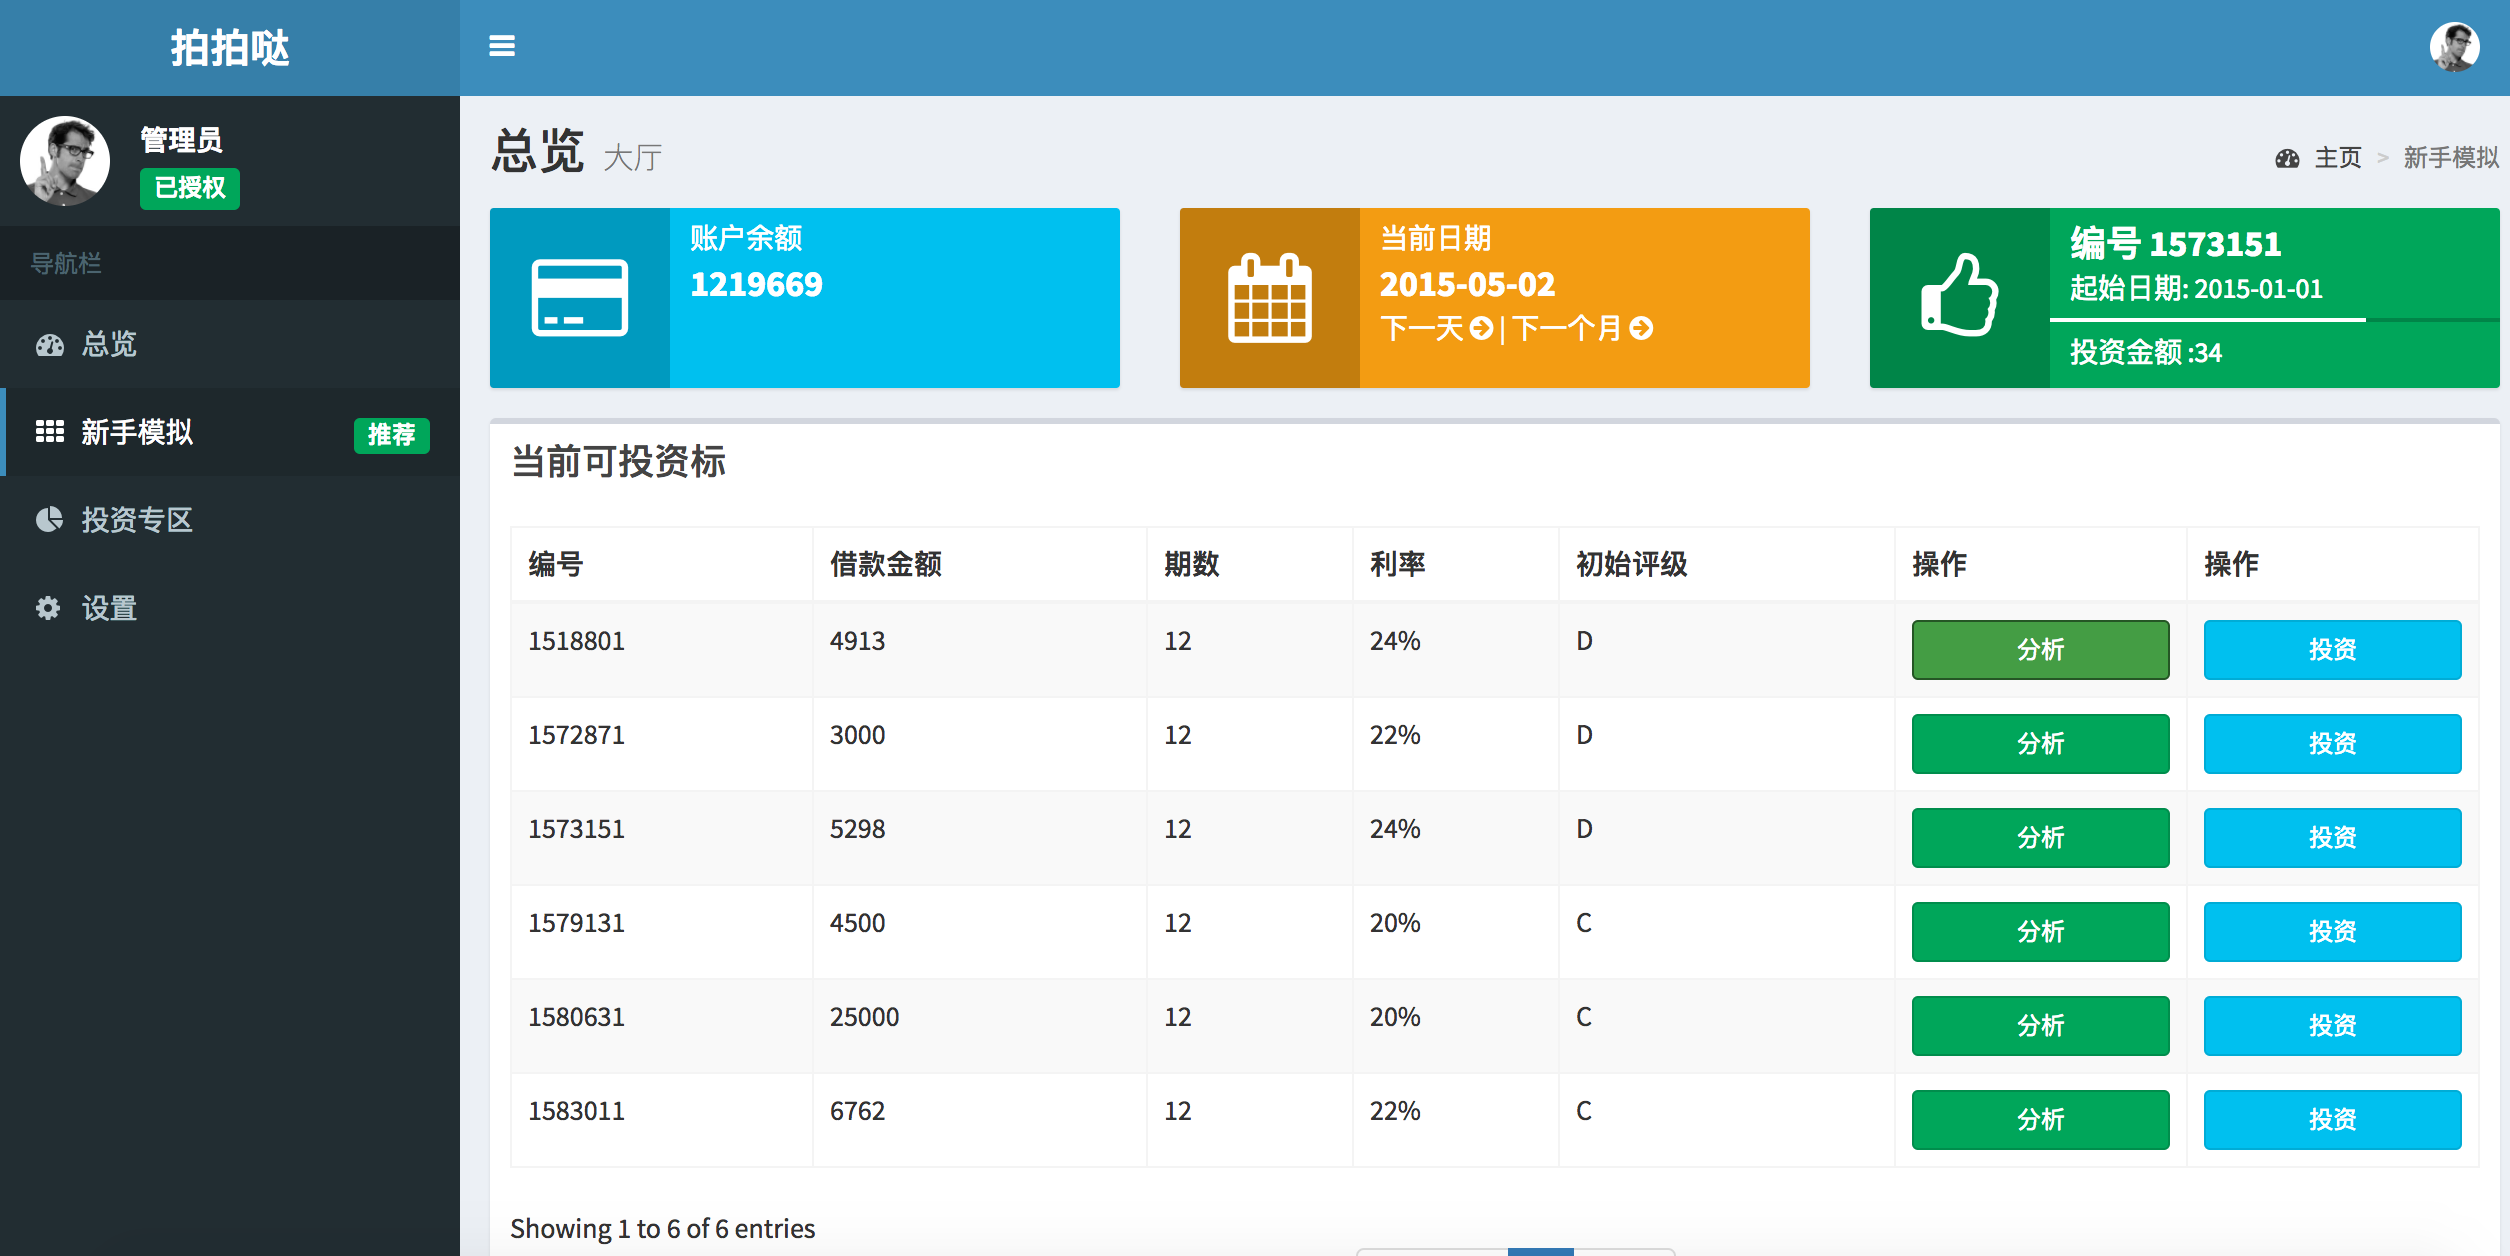
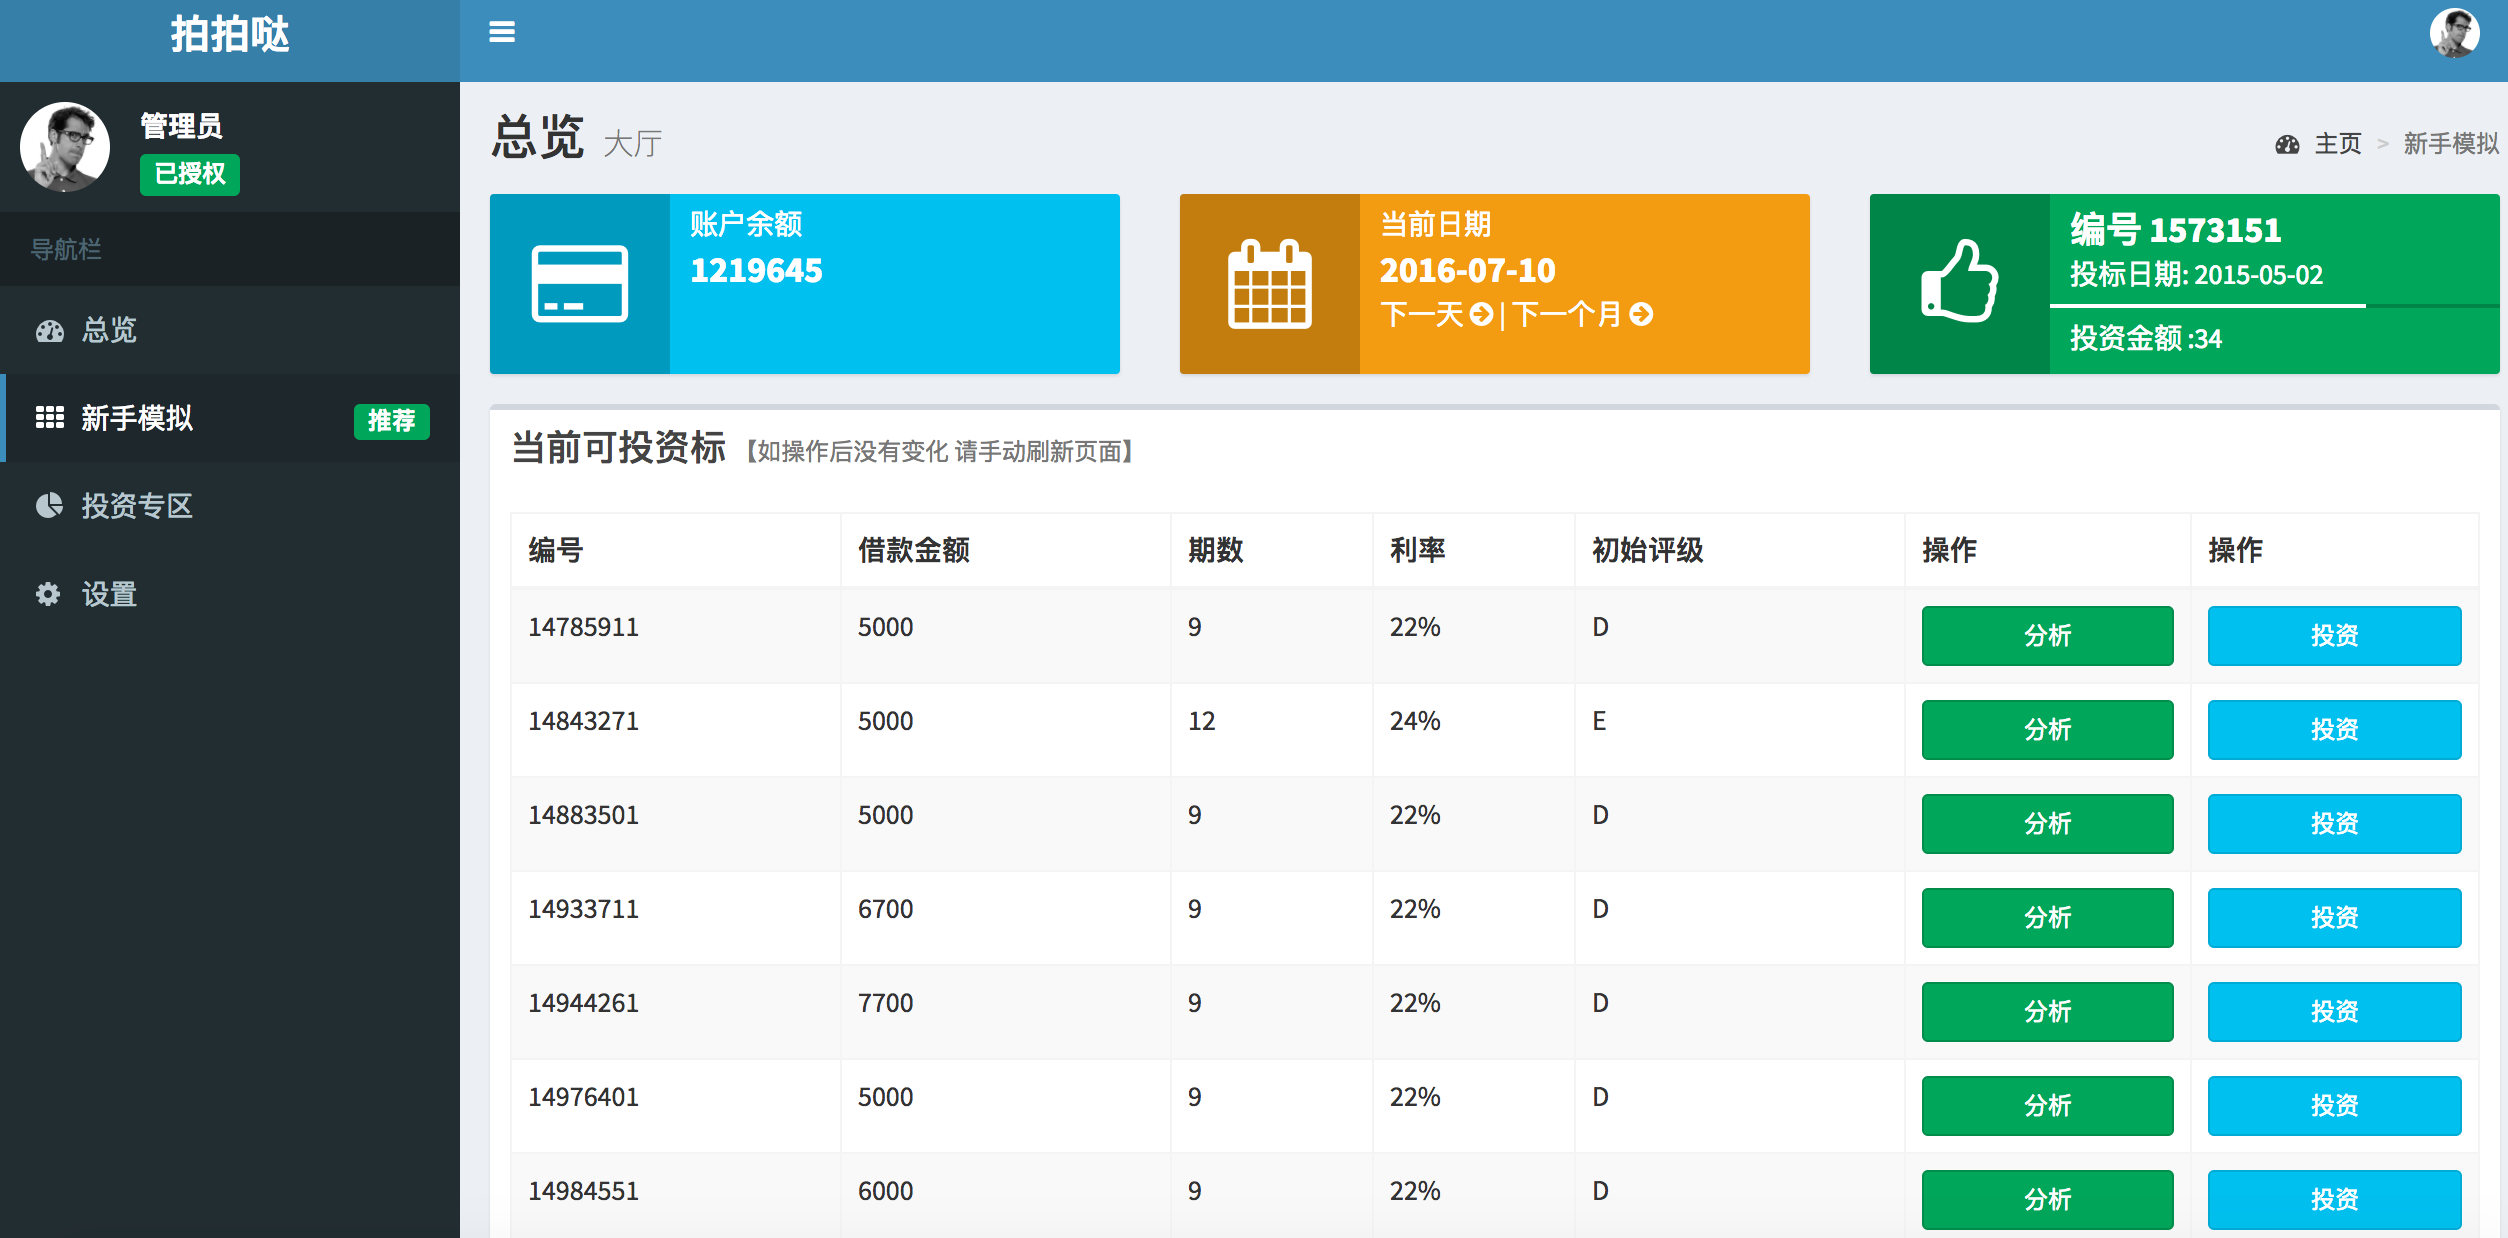
调试

diff --git a/README.md b/README.md
@@ -45,9 +45,10 @@
 - [x] 不同用户可以储存不同的token信息
 - [x] 构建了一个API用于读取特定的信息，可以批量读取投资信息
 - [x] 构建了一个API用于读取单个的信息
-- [x] 真实的模拟投资系统
+- [x] 真实的模拟投资系统，根据日期的变化，改变可选投资项
 - [x] 数据可视化
 - [x] 用缓存机制存储分析数据，高效快速
+- [x] 基于神经网络算法进行逾期率预测
 
 
 ## 新手模拟
